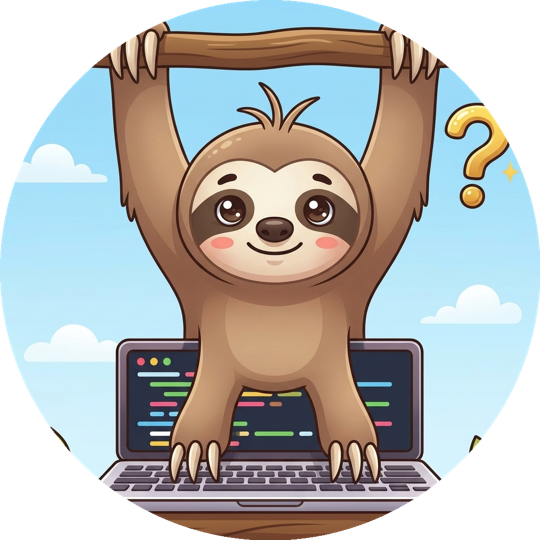
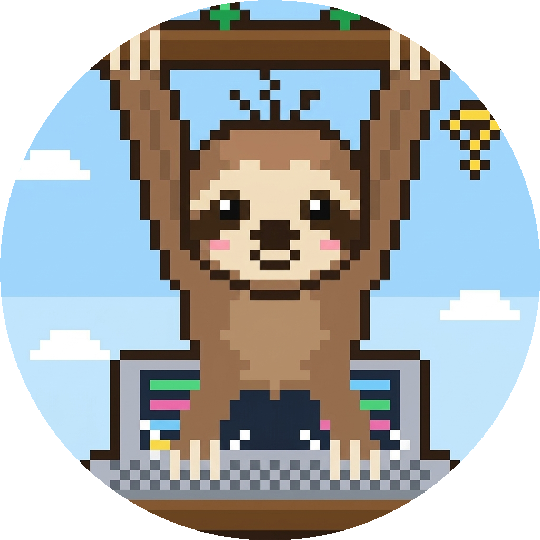
프로필 캐릭터를 제미나이 도트 버전으로 변경
Claude-Session: https://claude.ai/code/session_01WdwmgLGSEPWt33NoDGx5eo

diff --git a/CLAUDE.md b/CLAUDE.md
@@ -44,7 +44,7 @@
 - `node tools/video/make.js` → `python3 tools/video/mux.py` 로 3D 게임을 찍어 세로 쇼츠 MP4를 만들어요(README 참고). 장면·자막은 `make.js`의 `SC` 표. 게임 함수 이름(`start`, `actBuild`, `dxOpen`, `openPlaza` 등)을 직접 부르니, 이름을 바꾸면 영상 스크립트도 같이 고쳐야 해요.
 - 사용자는 나중에 주차별(1주차·2주차) 개발 일지 영상도 원해요. 주 끝에 `weekN` 태그를 남기면 좋아요.
 - 인스타 계정: **`@tree_null.vo`** (나무늘보 = Tree+null+vo 말장난). 콘셉트: 코딩을 모르는 나무늘보가 AI로 게임·앱·영상·3D 캐릭터를 만들어 수익을 내며 **'빌딩늘보'**(건물주 + 무언가를 building하는 늘보)가 되는 걸 꿈꾸는 이야기. 느려도 매주 꾸준히. 'Avian Influencer'는 시리즈·캐릭터 이름 후보.
-- 🦥 **늘보 이야기는 0부터 시작**: 일지·인스타 이야기에서 늘보는 Day 1에 아직 아무것도 안 만든 상태예요. 짹짹 게임(이미 있는 코드)은 사용자가 나중에 차근차근 이야기에 넣을 거예요 — 먼저 일지·캐릭터에 게임을 끼워 넣지 말 것. `brand/`의 첫 마스코트(게임 휴대폰 든 그림)는 연습 시안이에요. **확정 프로필 캐릭터는 `brand/profile_final.png`**(제미나이 일러스트): 두 손으로 가지에 매달린 나무늘보, 눈가 줄무늬, 머리 위 잔머리, 발로 노트북 코딩, 머리 옆 노란 "?". 안경·빌딩 없음. 앞으로 영상·이미지는 이 캐릭터 기준.
+- 🦥 **늘보 이야기는 0부터 시작**: 일지·인스타 이야기에서 늘보는 Day 1에 아직 아무것도 안 만든 상태예요. 짹짹 게임(이미 있는 코드)은 사용자가 나중에 차근차근 이야기에 넣을 거예요 — 먼저 일지·캐릭터에 게임을 끼워 넣지 말 것. `brand/`의 첫 마스코트(게임 휴대폰 든 그림)는 연습 시안이에요. **확정 프로필 캐릭터는 `brand/profile_final.png`**(제미나이 **도트** v1, 일러스트 v2는 보관): 두 손으로 가지에 매달린 나무늘보, 눈가 줄무늬, 머리 위 잔머리, 발로 노트북 코딩, 머리 옆 노란 "?". 안경·빌딩 없음. 앞으로 영상·이미지는 이 캐릭터 기준.
 - 📒 **개발 일지 `devlog/YYYY-MM-DD.md` (2026-11-16 시작)**: 작업 세션마다 사용자의 실제 말(🦥, 원문 그대로)과 AI가 한 일(🤖), 결과물, 🎬 릴스 소재를 그날 파일에 이어서 적고 커밋해요. 형식은 `devlog/README.md`. 파일 제목은 `# Day N · 날짜 — 그날의 제목`(Day 1 = 인스타 탄생일 11/16, 작업한 날만 셈), 새 날을 쓰면 README의 에피소드 목록 표에도 한 줄 추가. 웃긴 오해·첫 시도 실패→수정 같은 장면을 꼭 남겨요. 개인 정보는 적지 않아요.
 - 영상 자막·마지막 화면을 이 콘셉트로 바꾸는 건 **사용자와 같이 보고 정하기로 함 — 먼저 수정하지 말 것.**
 

diff --git a/brand/README.md b/brand/README.md
@@ -2,7 +2,7 @@
 
 인스타 `@tree_null.vo` 마스코트예요. 코딩 모르는 나무늘보가 AI로 게임·앱·영상·3D 캐릭터를 만들며 '빌딩늘보'를 꿈꾸는 콘셉트.
 
-- ✅ **`profile_final.png` — 확정된 인스타 프로필 캐릭터** (2026-11-16, 제미나이 일러스트 v2: 두 손으로 가지에 매달린 늘보 · 눈가 무늬 · 잔머리 · 발로 노트북 코딩 · 노란 "?"). `profile_circle_preview.png`는 동그랗게 잘린 미리보기
+- ✅ **`profile_final.png` — 확정된 인스타 프로필 캐릭터** (2026-11-16, **제미나이 도트 v1** = `gemini/2026-11-16_v1.png`: 두 손으로 가지에 매달린 도트 늘보 · 눈가 무늬 · 잔머리 · 발로 노트북 코딩 · 노란 "?". 일러스트 버전 v2는 다른 용도로 보관). `profile_circle_preview.png`는 동그랗게 잘린 미리보기
 - `gemini/` — 제미나이로 만든 시안들(날짜_버전)
 - `pixel_profile.png` / `pixel_sloth.png` — **현재 프로필 캐릭터**(도트 54×54칸 → 1080). 두 손으로 가지에 매달린 늘보 · 눈가 줄무늬 · 잔머리 두 가닥 · 발로 노트북 코딩 · 머리 옆 "?". 그림 코드 `pixel.js`, 다시 뽑기 `node brand/render-pixel.js`
 - (연습 시안) `sloth_profile.png` — 1080×1080, 하늘·금빛 빌딩 배경 (인스타 프로필용, 동그랗게 잘려도 얼굴이 가운데)

diff --git a/devlog/2026-11-16.md b/devlog/2026-11-16.md
@@ -92,11 +92,18 @@
 🦥 "이걸로 확정하자"
 → ✅ **프로필 캐릭터 확정!** 제미나이 일러스트 v2 → `brand/profile_final.png` (잔머리 세 가닥도 그대로, 귀여우니까)
 
+🦥 "도트가 좋은거 같아"
+🤖 어느 도트로 할지 물어봄 (제미나이 도트 / 클로드 도트 v2 / 일러스트를 도트로 새로)
+🦥 고른 것: **제미나이 도트**
+→ ✅ **최종 확정 변경!** 제미나이 도트 v1 → `brand/profile_final.png` (일러스트는 `brand/gemini/2026-11-16_v2.png`에 남겨둠)
+
+🎬 릴스 소재: "확정했다가 5분 만에 번복하는 늘보" 😂
+
 ---
 ### 오늘의 결과물
 - 인스타 `@tree_null.vo` 개설
 - 콘셉트 '빌딩늘보' 확정
-- ✅ 프로필 캐릭터 확정 (`brand/profile_final.png`, 제미나이 일러스트)
+- ✅ 프로필 캐릭터 확정 (`brand/profile_final.png`, **제미나이 도트**)
 - 도트 버전 늘보 (`brand/pixel_profile.png`) + 제미나이 프롬프트
 - 개발 일지 시작 (`devlog/`)
 
